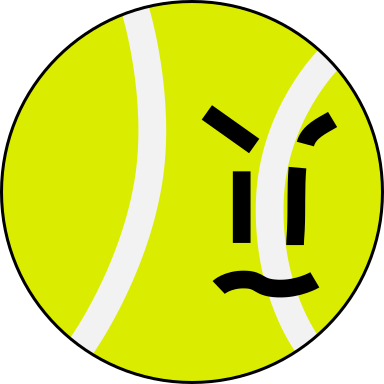
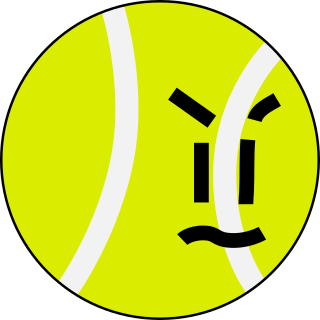
resize engineer

diff --git a/src/main/java/engineer/EngineerCharacter.java b/src/main/java/engineer/EngineerCharacter.java
@@ -127,7 +127,7 @@ public class EngineerCharacter extends CustomPlayer {
             }
             );
         initializeClass(characterPath("engineer.png"), characterPath("shoulder.png"), characterPath("shoulder2.png"), 
-            characterPath("corpse.png"), getLoadout(), 0f, 0f, 384f, 384f,
+            characterPath("corpse.png"), getLoadout(), 0f, 0f, 320f, 320f,
             new EnergyManager(3));
 
         dialogX = (drawX + 0.0F * Settings.scale);

diff --git a/src/main/java/engineer/cards/common/AttackAttackCard.java b/src/main/java/engineer/cards/common/AttackAttackCard.java
@@ -31,8 +31,11 @@ public class AttackAttackCard extends EngineerCard {
     @Override
     public void upgrade() {
         super.upgrade();
-        upgradeDamage(2);
-        upgradeMagicNumber(2);
+
+        if (!upgraded) {
+            upgradeDamage(2);
+            upgradeMagicNumber(2);    
+        }
     }
     
     @Override
